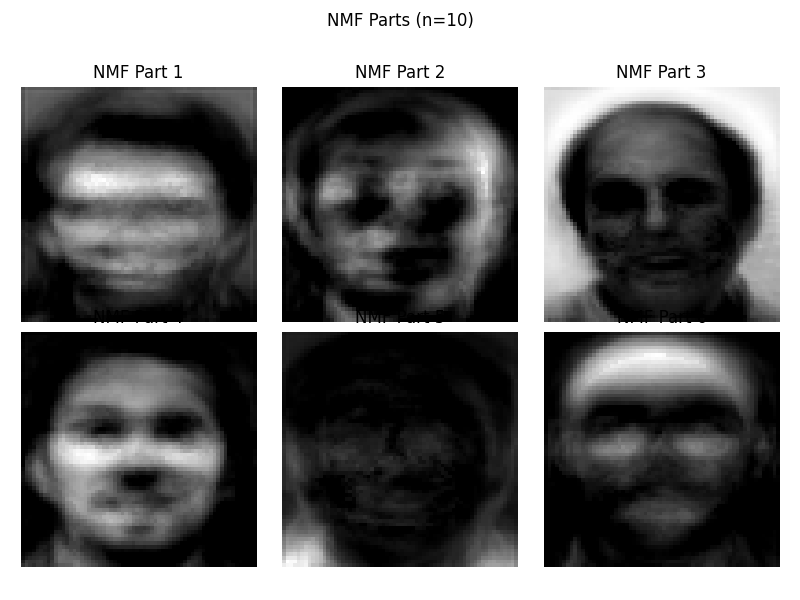
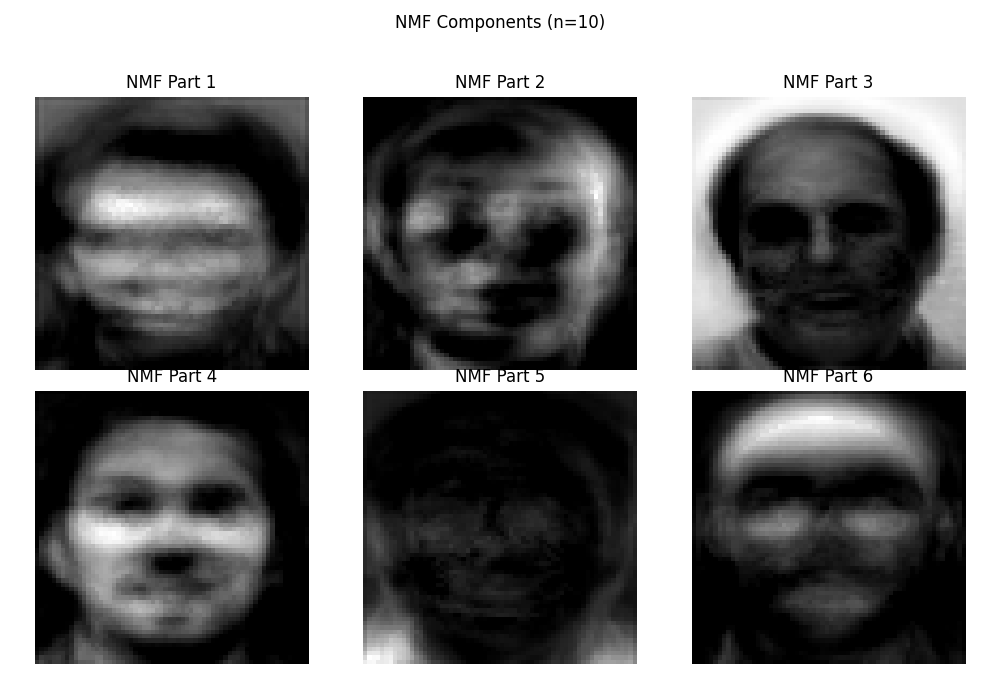
Modify the code , make it clean and remove unwanted parts.

diff --git a/Face_recognition.py b/Face_recognition.py
@@ -9,82 +9,100 @@ from sklearn.metrics import accuracy_score, classification_report
 from sklearn.manifold import TSNE
 from PIL import Image, ImageEnhance
 
-# ✅ Load grayscale face images with added contrast-enhanced versions
-def load_faces_with_contrast(path):
+def load_faces_with_contrast(path, img_size=(64, 64), contrast_factor=1.3):
+    """
+    Load grayscale face images from a directory.
+    For each image, also generate a contrast-enhanced version.
+
+    Args:
+        path (str): Directory containing face images.
+        img_size (tuple): Target size for image resizing.
+        contrast_factor (float): Factor to enhance contrast.
+
+    Returns:
+        images (np.ndarray): Flattened image arrays (normalized).
+        labels (np.ndarray): Corresponding integer labels.
+    """
     images = []
     labels = []
     label_map = {}
     current_label = 0
 
+    # List files sorted for consistency
     for filename in sorted(os.listdir(path)):
-        if filename.endswith('.jpg'):
+        if filename.lower().endswith('.jpg'):
             try:
+                # Extract person ID from filename prefix (assumes format 'personid_xxx.jpg')
                 person_id = filename.split('_')[0]
+
+                # Map person_id to integer label
                 if person_id not in label_map:
                     label_map[person_id] = current_label
                     current_label += 1
                 label = label_map[person_id]
 
+                # Load and preprocess image
                 img_path = os.path.join(path, filename)
-                img = Image.open(img_path).convert('L').resize((64, 64))
+                img = Image.open(img_path).convert('L').resize(img_size)
 
-                base = np.array(img).astype(np.float32) / 255.0
-                images.append(base.flatten())
+                # Normalize image to [0,1]
+                base_array = np.array(img).astype(np.float32) / 255.0
+                images.append(base_array.flatten())
                 labels.append(label)
 
-                # Add contrast-enhanced version
-                contrast_img = ImageEnhance.Contrast(img).enhance(1.3)
+                # Create and add contrast-enhanced version
+                contrast_img = ImageEnhance.Contrast(img).enhance(contrast_factor)
                 contrast_array = np.array(contrast_img).astype(np.float32) / 255.0
                 images.append(contrast_array.flatten())
                 labels.append(label)
 
             except Exception as e:
-                print(f"Error loading {filename}: {e}")
-                continue
+                print(f"Warning: Could not process {filename}: {e}")
 
     return np.array(images), np.array(labels)
 
-# ✅ Load dataset
+
+# Load dataset
 dataset_path = r'C:\Users\Janmitsinh\Desktop\academic_Concordia\A_SEM3\SCM\COMP6651_ADT\orl-database-for-training-and-testing\renamed_faces'
 X_raw, y_raw = load_faces_with_contrast(dataset_path)
-print(f"✅ Loaded: {len(X_raw)} images, {len(set(y_raw))} classes")
+print(f"Loaded {len(X_raw)} images across {len(set(y_raw))} classes.")
 
-# ✅ Filter out classes with fewer than 4 samples
+# Filter classes to keep only those with at least 4 samples
 label_counts = Counter(y_raw)
 valid_labels = {label for label, count in label_counts.items() if count >= 4}
-X = [x for x, y_ in zip(X_raw, y_raw) if y_ in valid_labels]
-y = [y_ for y_ in y_raw if y_ in valid_labels]
-X = np.array(X)
-y = np.array(y)
+
+# Filter dataset based on valid labels
+X = np.array([x for x, y_ in zip(X_raw, y_raw) if y_ in valid_labels])
+y = np.array([y_ for y_ in y_raw if y_ in valid_labels])
 
 if len(X) == 0:
-    raise RuntimeError("❌ No classes have at least 4 samples. Please check the dataset.")
-print(f"📊 After filtering: {len(X)} images, {len(set(y))} classes")
+    raise RuntimeError("No classes have at least 4 samples after filtering. Please check the dataset.")
 
-# ✅ Normalize features using Min-Max Scaling for NMF compatibility
+print(f"After filtering: {len(X)} images across {len(set(y))} classes.")
+
+# Normalize features for NMF (Min-Max scaling feature-wise)
 X_min = X.min(axis=0)
 X_max = X.max(axis=0)
-X = (X - X_min) / (X_max - X_min + 1e-6)
+X = (X - X_min) / (X_max - X_min + 1e-10)  # Added small epsilon to avoid division by zero
 
-
-# ✅ Train/Val/Test Split (Stratified)
+# Split dataset into train, validation, and test sets (stratified splits)
 X_temp, X_test, y_temp, y_test = train_test_split(X, y, test_size=0.2, stratify=y, random_state=42)
 X_train, X_val, y_train, y_val = train_test_split(X_temp, y_temp, test_size=0.25, stratify=y_temp, random_state=42)
+# Note: This results in 60% train, 20% val, 20% test
 
-# ✅ Prepare for experiment
+print(f"Dataset split: Train={len(X_train)}, Val={len(X_val)}, Test={len(X_test)}")
+
+# Define number of components to test for dimensionality reduction
 components_list = list(range(10, 101, 10))
-nmf_val_accuracies = []
-nmf_test_accuracies = []
-nmf_train_accuracies = []
 
-pca_val_accuracies = []
-pca_test_accuracies = []
-pca_train_accuracies = []
+# Containers for accuracies
+nmf_train_acc, nmf_val_acc, nmf_test_acc = [], [], []
+pca_train_acc, pca_val_acc, pca_test_acc = [], [], []
 
-# ✅ Loop through component sizes for NMF and PCA
-for n in components_list:
-    # ----- NMF -----
-    nmf = NMF(n_components=n, init='nndsvda', max_iter=700, random_state=42)
+# Loop over component counts
+for n_components in components_list:
+    # ----- Non-negative Matrix Factorization (NMF) -----
+    nmf = NMF(n_components=n_components, init='nndsvda', max_iter=700, random_state=42)
     X_train_nmf = nmf.fit_transform(X_train)
     X_val_nmf = nmf.transform(X_val)
     X_test_nmf = nmf.transform(X_test)
@@ -92,18 +110,18 @@ for n in components_list:
     clf_nmf = SVC(kernel='poly', degree=3, C=10, gamma='scale')
     clf_nmf.fit(X_train_nmf, y_train)
 
-    train_acc_nmf = accuracy_score(y_train, clf_nmf.predict(X_train_nmf))
-    val_acc_nmf = accuracy_score(y_val, clf_nmf.predict(X_val_nmf))
-    test_acc_nmf = accuracy_score(y_test, clf_nmf.predict(X_test_nmf))
+    nmf_train_score = accuracy_score(y_train, clf_nmf.predict(X_train_nmf))
+    nmf_val_score = accuracy_score(y_val, clf_nmf.predict(X_val_nmf))
+    nmf_test_score = accuracy_score(y_test, clf_nmf.predict(X_test_nmf))
 
-    nmf_train_accuracies.append(train_acc_nmf * 100)
-    nmf_val_accuracies.append(val_acc_nmf * 100)
-    nmf_test_accuracies.append(test_acc_nmf * 100)
+    nmf_train_acc.append(nmf_train_score * 100)
+    nmf_val_acc.append(nmf_val_score * 100)
+    nmf_test_acc.append(nmf_test_score * 100)
 
-    print(f"[NMF n={n}] Train: {train_acc_nmf*100:.2f}%, Val: {val_acc_nmf*100:.2f}%, Test: {test_acc_nmf*100:.2f}%")
+    print(f"[NMF n_components={n_components}] Train: {nmf_train_score*100:.2f}%, Val: {nmf_val_score*100:.2f}%, Test: {nmf_test_score*100:.2f}%")
 
-    # ----- PCA -----
-    pca = PCA(n_components=n, svd_solver='randomized', whiten=True, random_state=42)
+    # ----- Principal Component Analysis (PCA) -----
+    pca = PCA(n_components=n_components, svd_solver='randomized', whiten=True, random_state=42)
     X_train_pca = pca.fit_transform(X_train)
     X_val_pca = pca.transform(X_val)
     X_test_pca = pca.transform(X_test)
@@ -111,29 +129,29 @@ for n in components_list:
     clf_pca = SVC(kernel='rbf', C=10, gamma='scale')
     clf_pca.fit(X_train_pca, y_train)
 
-    train_acc_pca = accuracy_score(y_train, clf_pca.predict(X_train_pca))
-    val_acc_pca = accuracy_score(y_val, clf_pca.predict(X_val_pca))
-    test_acc_pca = accuracy_score(y_test, clf_pca.predict(X_test_pca))
+    pca_train_score = accuracy_score(y_train, clf_pca.predict(X_train_pca))
+    pca_val_score = accuracy_score(y_val, clf_pca.predict(X_val_pca))
+    pca_test_score = accuracy_score(y_test, clf_pca.predict(X_test_pca))
 
-    pca_train_accuracies.append(train_acc_pca * 100)
-    pca_val_accuracies.append(val_acc_pca * 100)
-    pca_test_accuracies.append(test_acc_pca * 100)
+    pca_train_acc.append(pca_train_score * 100)
+    pca_val_acc.append(pca_val_score * 100)
+    pca_test_acc.append(pca_test_score * 100)
 
-    print(f"[PCA n={n}] Train: {train_acc_pca*100:.2f}%, Val: {val_acc_pca*100:.2f}%, Test: {test_acc_pca*100:.2f}%")
+    print(f"[PCA n_components={n_components}] Train: {pca_train_score*100:.2f}%, Val: {pca_val_score*100:.2f}%, Test: {pca_test_score*100:.2f}%")
 
-# ✅ Plot Accuracy Comparison
+# Plot accuracy trends for both methods
 plt.figure(figsize=(10, 6))
-plt.plot(components_list, nmf_test_accuracies, 'o-', label='NMF Test')
-plt.plot(components_list, nmf_val_accuracies, 'x--', label='NMF Val')
-plt.plot(components_list, nmf_train_accuracies, 's--', label='NMF Train')
+plt.plot(components_list, nmf_train_acc, 's--', label='NMF Train')
+plt.plot(components_list, nmf_val_acc, 'x--', label='NMF Val')
+plt.plot(components_list, nmf_test_acc, 'o-', label='NMF Test')
 
-plt.plot(components_list, pca_test_accuracies, 'o-', label='PCA Test')
-plt.plot(components_list, pca_val_accuracies, 'x--', label='PCA Val')
-plt.plot(components_list, pca_train_accuracies, 's--', label='PCA Train')
+plt.plot(components_list, pca_train_acc, 's--', label='PCA Train')
+plt.plot(components_list, pca_val_acc, 'x--', label='PCA Val')
+plt.plot(components_list, pca_test_acc, 'o-', label='PCA Test')
 
 plt.xlabel('Number of Components')
 plt.ylabel('Accuracy (%)')
-plt.title('NMF vs PCA: Train, Val, Test Accuracy')
+plt.title('NMF vs PCA: Accuracy Comparison on Train, Validation, and Test Sets')
 plt.legend()
 plt.grid(True, linestyle='--', alpha=0.5)
 plt.xticks(components_list)
@@ -141,62 +159,71 @@ plt.tight_layout()
 plt.savefig("nmf_vs_pca_accuracy_full.png")
 plt.show()
 
-# ✅ Visualize Top NMF Components
-best_n_nmf = components_list[np.argmax(nmf_test_accuracies)]
+# Select best number of components based on test accuracy
+best_n_nmf = components_list[np.argmax(nmf_test_acc)]
+best_n_pca = components_list[np.argmax(pca_test_acc)]
+
+# Visualize first 6 NMF components as images (parts-based representation)
 nmf_final = NMF(n_components=best_n_nmf, init='nndsvda', max_iter=1000, random_state=42)
 nmf_final.fit(X_train)
-components_nmf = nmf_final.components_[:6]
+nmf_components = nmf_final.components_[:6]
 
-fig, axes = plt.subplots(2, 3, figsize=(8, 6))
+fig, axes = plt.subplots(2, 3, figsize=(10, 7))
 for i, ax in enumerate(axes.flat):
-    ax.imshow(components_nmf[i].reshape((64, 64)), cmap='gray')
-    ax.set_title(f'NMF Part {i+1}')
+    ax.imshow(nmf_components[i].reshape((64, 64)), cmap='gray')
+    ax.set_title(f'NMF Part {i + 1}')
     ax.axis('off')
-plt.suptitle(f"NMF Parts (n={best_n_nmf})")
+plt.suptitle(f'NMF Components (n={best_n_nmf})')
 plt.tight_layout(rect=[0, 0.03, 1, 0.95])
 plt.savefig("nmf_parts_visualization.png")
 plt.show()
 
-# ✅ Visualize Top PCA Components
-best_n_pca = components_list[np.argmax(pca_test_accuracies)]
+# Visualize first 6 PCA components as eigenfaces
 pca_final = PCA(n_components=best_n_pca, svd_solver='randomized', whiten=True, random_state=42)
 pca_final.fit(X_train)
-components_pca = pca_final.components_[:6]
+pca_components = pca_final.components_[:6]
 
-fig, axes = plt.subplots(2, 3, figsize=(8, 6))
+fig, axes = plt.subplots(2, 3, figsize=(10, 7))
 for i, ax in enumerate(axes.flat):
-    ax.imshow(components_pca[i].reshape((64, 64)), cmap='gray')
-    ax.set_title(f'PCA Comp {i+1}')
+    ax.imshow(pca_components[i].reshape((64, 64)), cmap='gray')
+    ax.set_title(f'PCA Component {i + 1}')
     ax.axis('off')
-plt.suptitle(f"PCA Components (n={best_n_pca})")
+plt.suptitle(f'PCA Components (n={best_n_pca})')
 plt.tight_layout(rect=[0, 0.03, 1, 0.95])
 plt.savefig("pca_components_visualization.png")
 plt.show()
 
-# ✅ Classification Reports
-X_test_nmf = nmf_final.transform(X_test)
-clf_nmf_final = SVC(kernel='poly', degree=3, C=10, gamma='scale').fit(nmf_final.transform(X_train), y_train)
-print("\n📋 NMF Classification Report:")
-print(classification_report(y_test, clf_nmf_final.predict(X_test_nmf)))
+# Train final SVM classifiers on full training data with best parameters
+X_train_nmf_final = nmf_final.transform(X_train)
+X_test_nmf_final = nmf_final.transform(X_test)
+clf_nmf_final = SVC(kernel='poly', degree=3, C=10, gamma='scale')
+clf_nmf_final.fit(X_train_nmf_final, y_train)
 
-X_test_pca = pca_final.transform(X_test)
-clf_pca_final = SVC(kernel='rbf', C=10, gamma='scale').fit(pca_final.transform(X_train), y_train)
-print("\n📋 PCA Classification Report:")
-print(classification_report(y_test, clf_pca_final.predict(X_test_pca)))
+X_train_pca_final = pca_final.transform(X_train)
+X_test_pca_final = pca_final.transform(X_test)
+clf_pca_final = SVC(kernel='rbf', C=10, gamma='scale')
+clf_pca_final.fit(X_train_pca_final, y_train)
 
-# ✅ t-SNE Visualization (NMF)
+# Print classification reports for final models
+print("\nNMF Classification Report:")
+print(classification_report(y_test, clf_nmf_final.predict(X_test_nmf_final)))
+
+print("\nPCA Classification Report:")
+print(classification_report(y_test, clf_pca_final.predict(X_test_pca_final)))
+
+# t-SNE visualization on NMF features (entire filtered dataset)
 tsne = TSNE(n_components=2, random_state=42, perplexity=30)
 X_all_nmf = nmf_final.transform(X)
 X_2d_nmf = tsne.fit_transform(X_all_nmf)
 
 plt.figure(figsize=(8, 6))
 scatter = plt.scatter(X_2d_nmf[:, 0], X_2d_nmf[:, 1], c=y, cmap='tab10', s=15)
-plt.title("t-SNE Visualization on NMF Features")
+plt.title("t-SNE Visualization of NMF Features")
 plt.colorbar(scatter)
 plt.tight_layout()
 plt.savefig("tsne_nmf.png")
 plt.show()
 
-# ✅ Summary
-print(f"\n🥇 Best NMF n_components = {best_n_nmf} with Test Accuracy = {max(nmf_test_accuracies):.2f}%")
-print(f"🥈 Best PCA n_components = {best_n_pca} with Test Accuracy = {max(pca_test_accuracies):.2f}%")
+# Summary of best results
+print(f"\nBest NMF n_components: {best_n_nmf} with Test Accuracy: {max(nmf_test_acc):.2f}%")
+print(f"Best PCA n_components: {best_n_pca} with Test Accuracy: {max(pca_test_acc):.2f}%")
